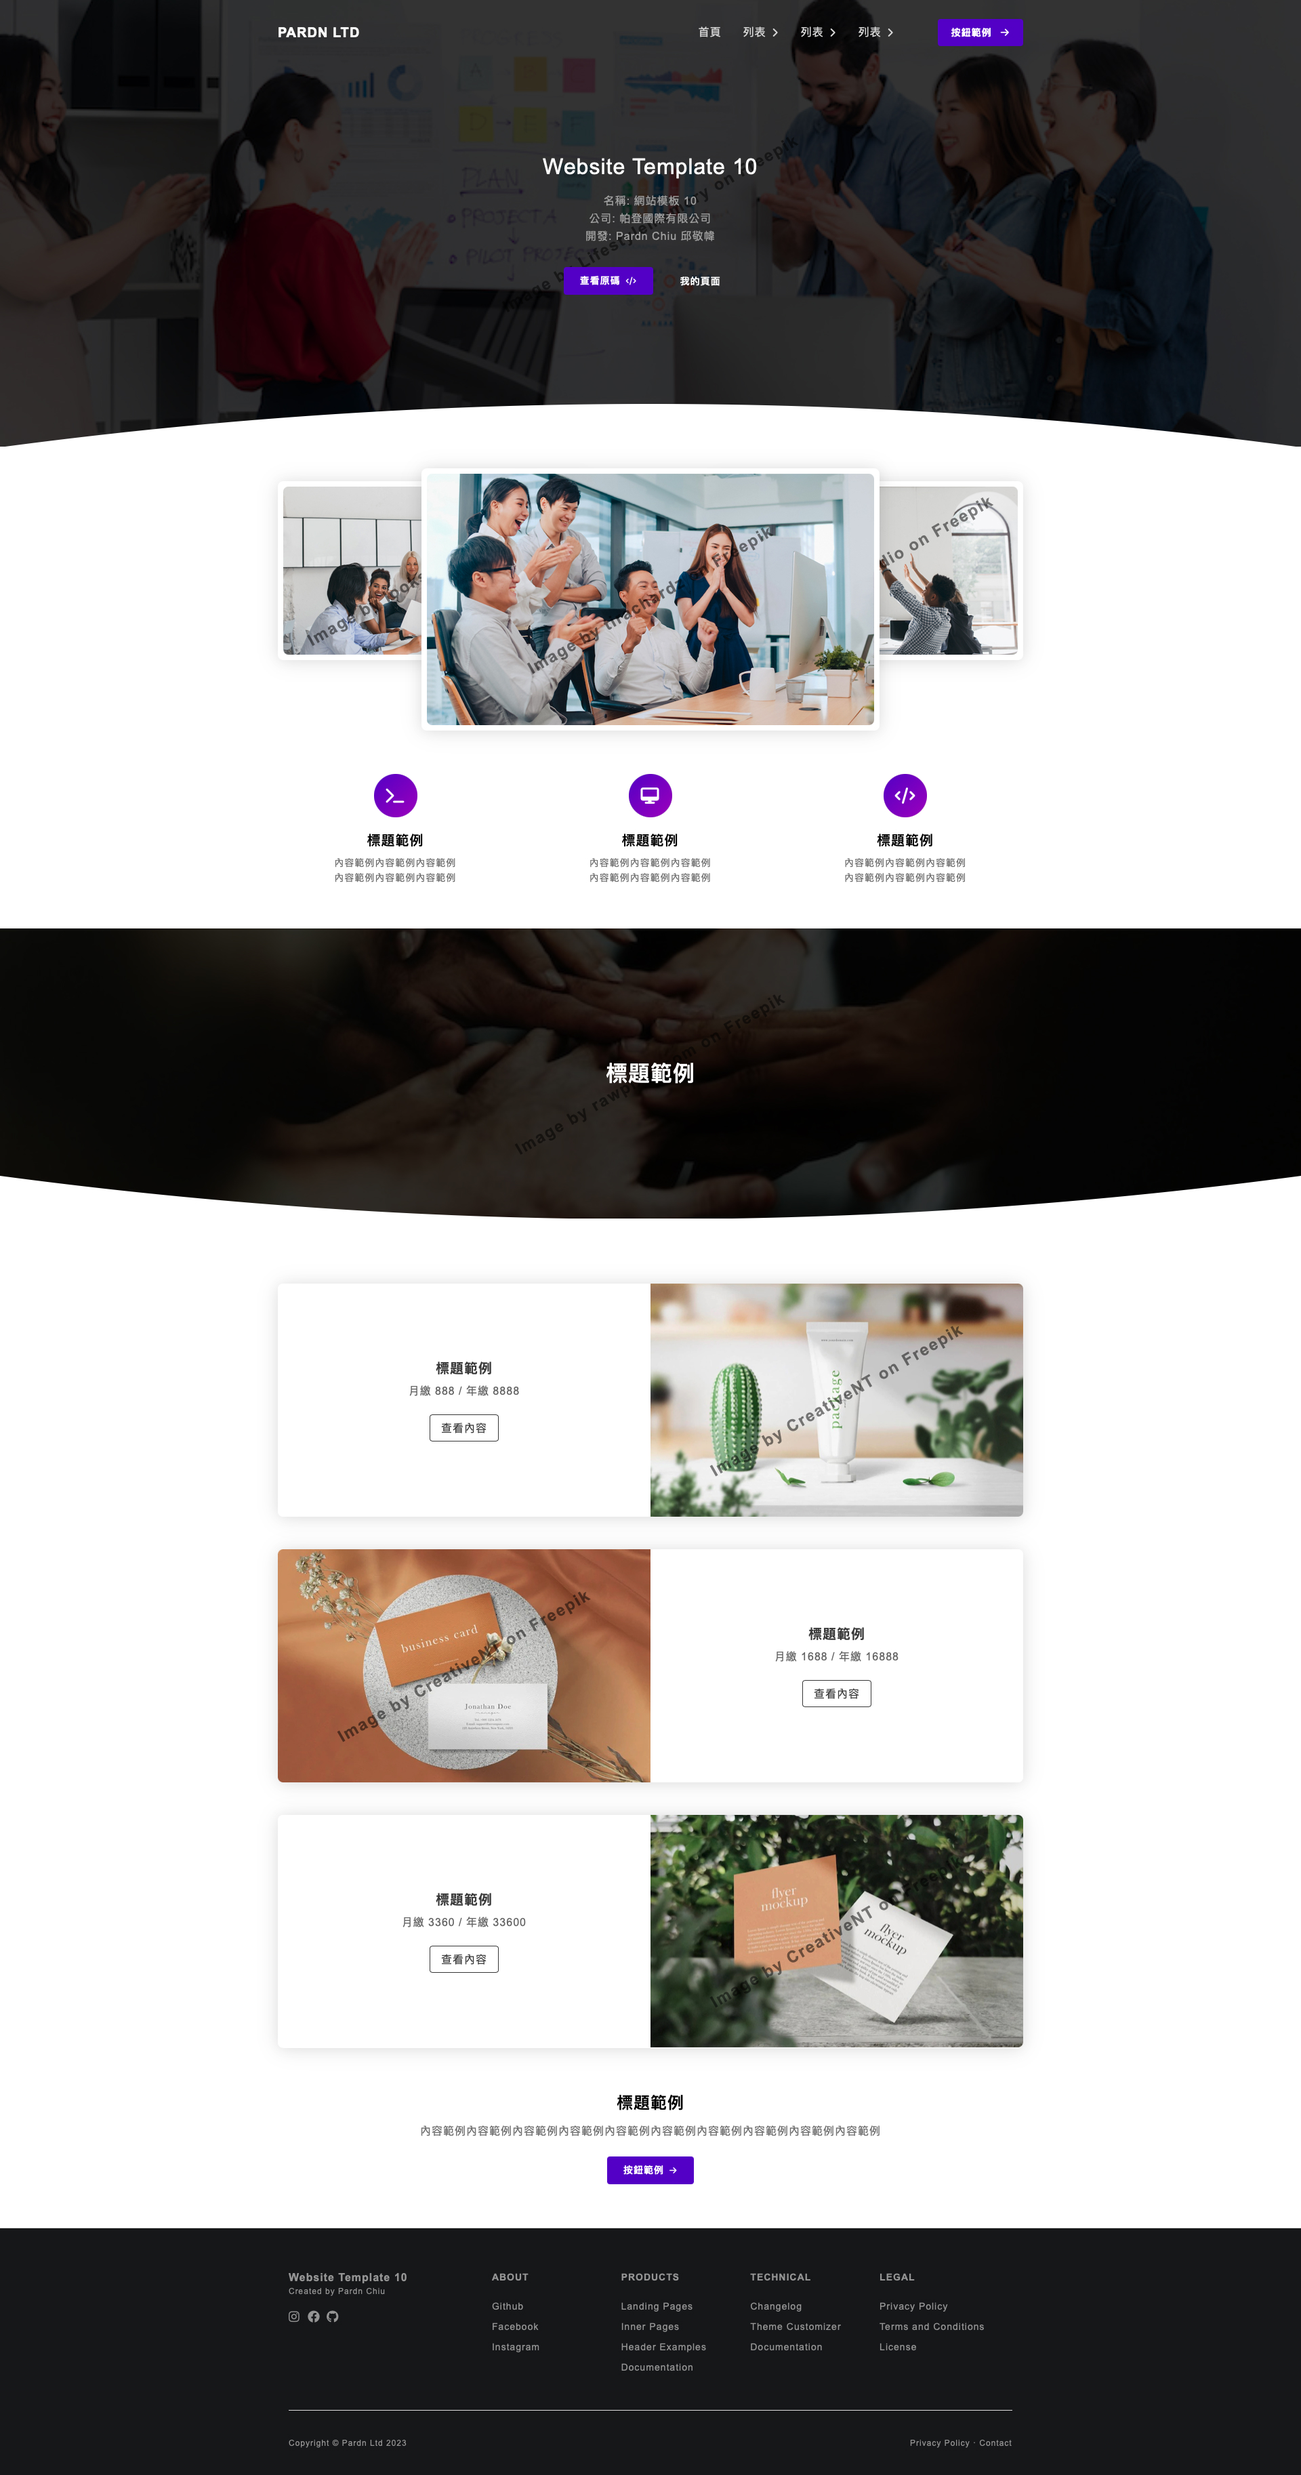
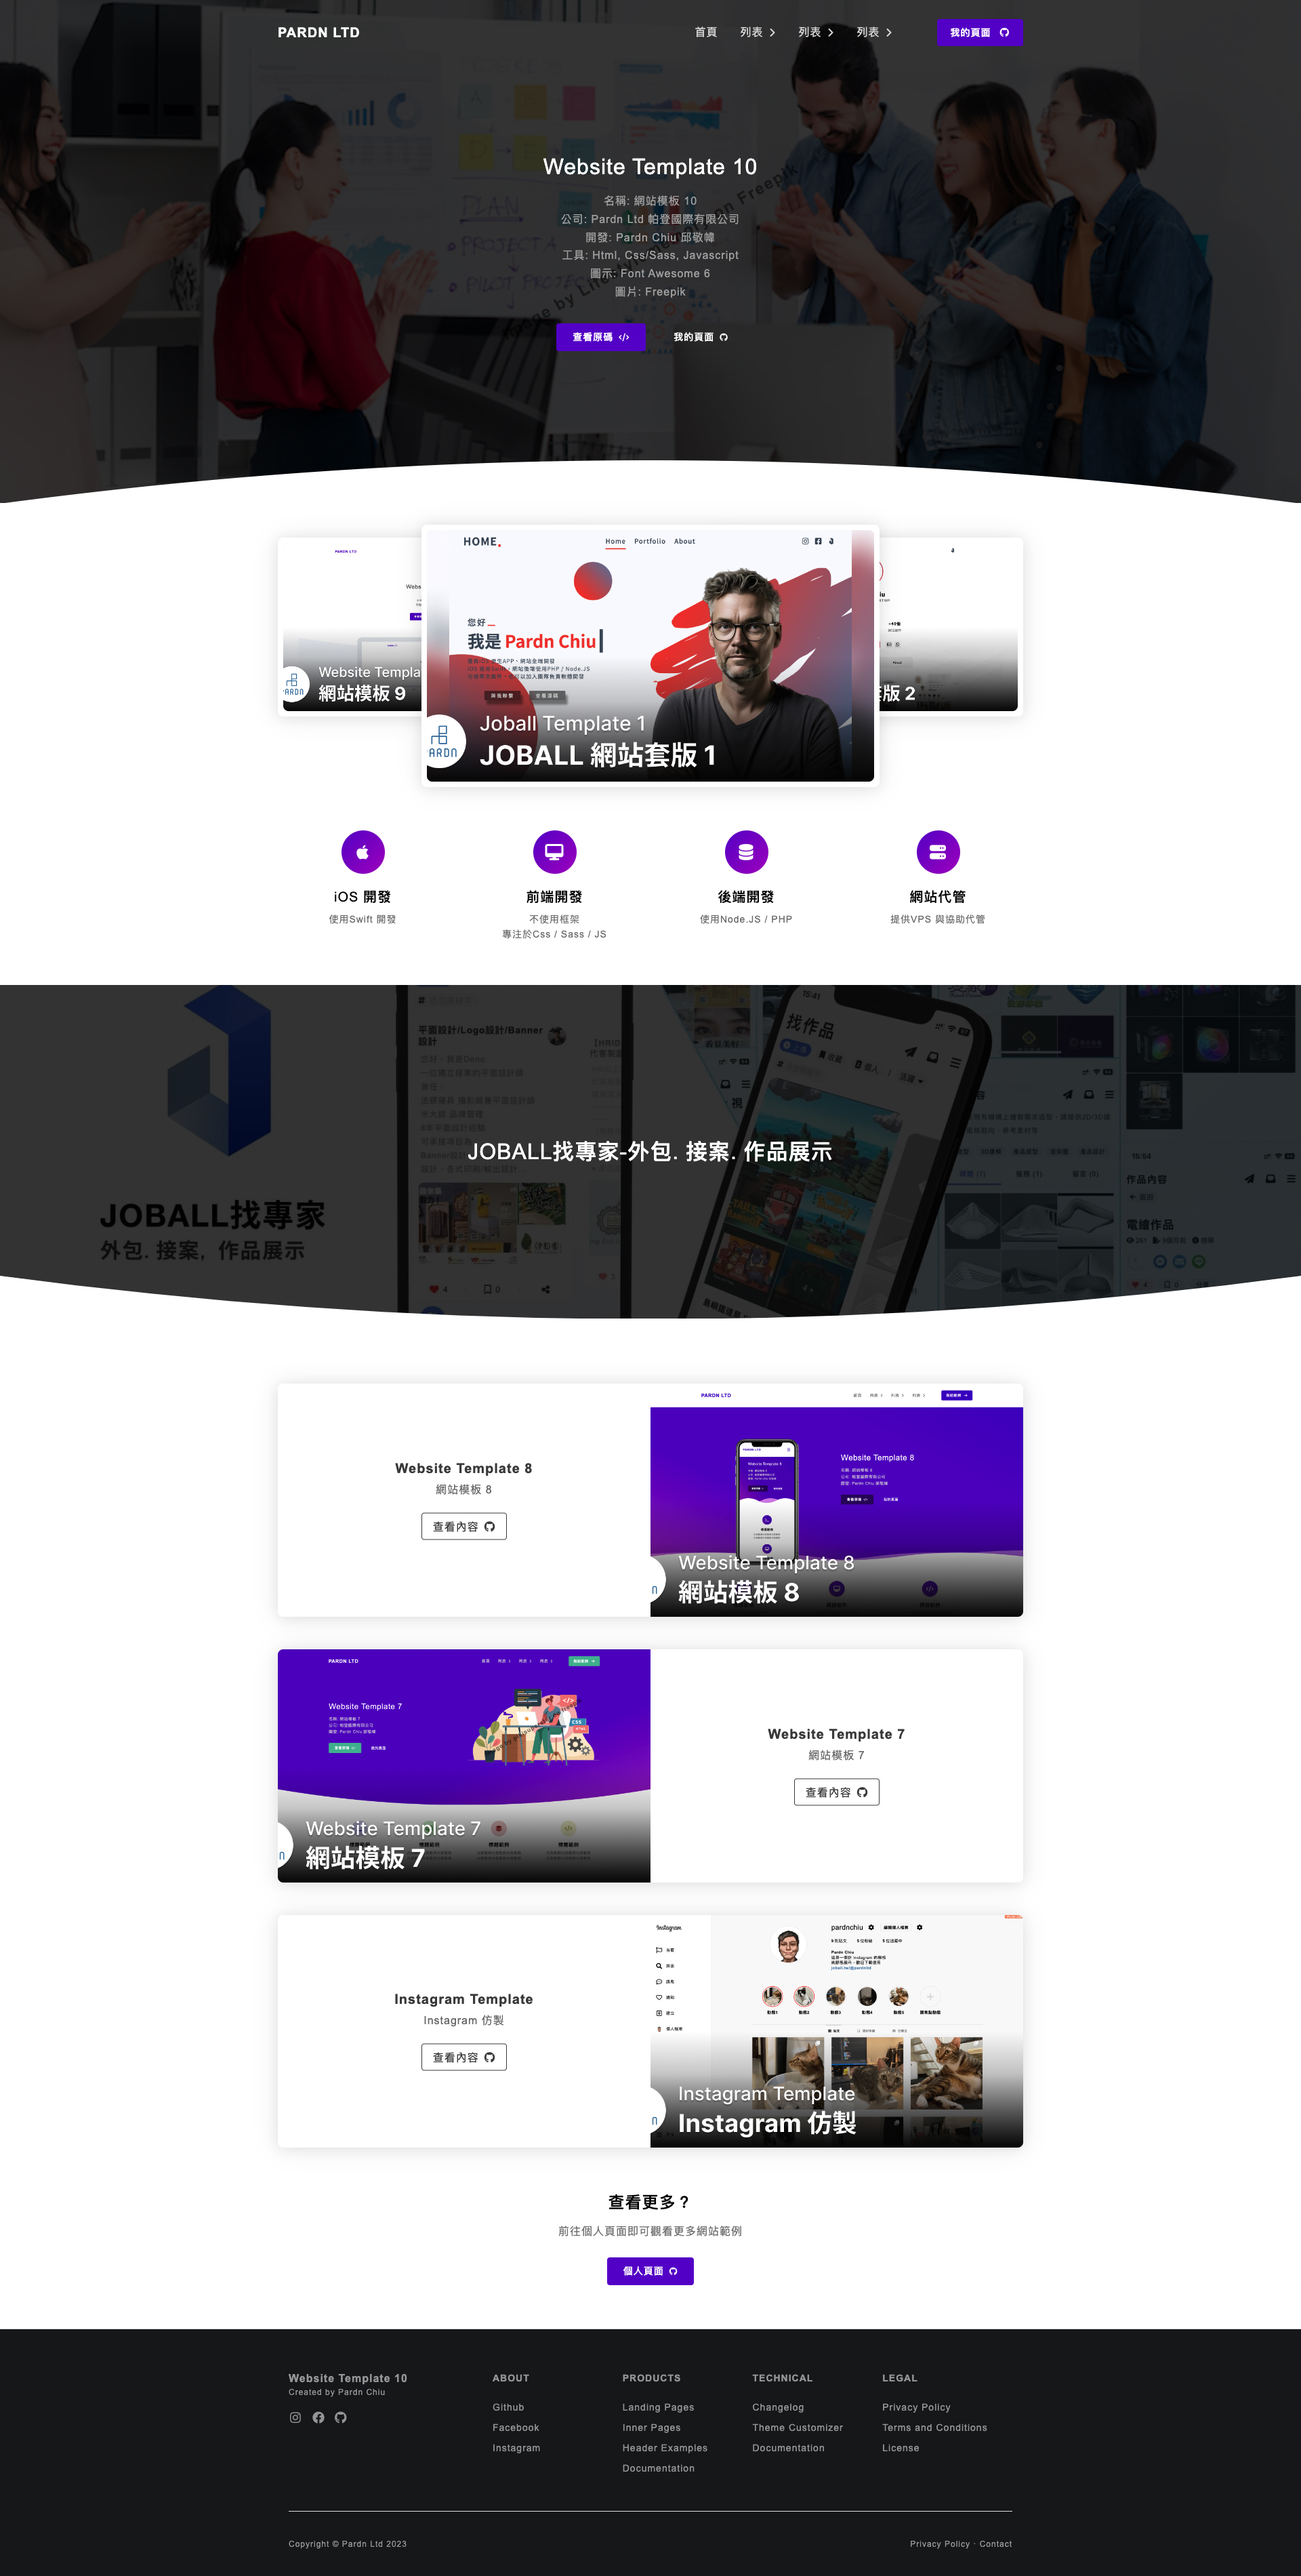
202303030818

diff --git a/index.html b/index.html
@@ -30,13 +30,13 @@
   <meta property="og:title"       content="Website Template 10 - 網站模板 10">
   <meta property="og:description" content="您好，我是帕登國際有限公司的全端工程師Pardn Chiu，擁有豐富的網站開發和iOS開發經驗。可以提供客製化的網站開發和iOS開發服務，確保最終成果品質和使用體驗。如果您需要專業的網站開發和iOS開發服務，請聯繫帕登國際有限公司，我是Pardn Chiu，您客製化網頁開發、iOS開發的最佳解決方案。我還提供了一個專家社群平台「JOBALL找專家」，專為尋找專業人才的企業和個人設計。透過JOBALL，您可以輕鬆地搜尋並找到需要的專家，並與他們直接聯繫，省去中間環節的麻煩。而身為專業人才的您也可以在JOBALL專家社群平台中上傳自己的作品和經驗，讓更多人發現自己的專業特長，並獲得更多的接案機會。如果您需要尋找專業人才，或是想要展示自己的專業技能，歡迎來JOBALL找尋適合您的機會。">
   <meta property="og:image"       content="image/2-1.jpg">
-  <meta property="og:url"         content="https://pardnchiu.github.io/website-template-10">
+  <meta property="og:url"         content="https://pardnchiu.github.io/website-template-10/">
   <meta property="og:type"        content="website">
   <!--  -->
   <meta property="twitter:title"        content="Website Template 10 - 網站模板 10">
   <meta property="twitter:description"  content="您好，我是帕登國際有限公司的全端工程師Pardn Chiu，擁有豐富的網站開發和iOS開發經驗。可以提供客製化的網站開發和iOS開發服務，確保最終成果品質和使用體驗。如果您需要專業的網站開發和iOS開發服務，請聯繫帕登國際有限公司，我是Pardn Chiu，您客製化網頁開發、iOS開發的最佳解決方案。我還提供了一個專家社群平台「JOBALL找專家」，專為尋找專業人才的企業和個人設計。透過JOBALL，您可以輕鬆地搜尋並找到需要的專家，並與他們直接聯繫，省去中間環節的麻煩。而身為專業人才的您也可以在JOBALL專家社群平台中上傳自己的作品和經驗，讓更多人發現自己的專業特長，並獲得更多的接案機會。如果您需要尋找專業人才，或是想要展示自己的專業技能，歡迎來JOBALL找尋適合您的機會。">
   <meta property="twitter:image"        content="image/2-1.jpg">
-  <meta property="og:url"               content="https://pardnchiu.github.io/website-template-10">
+  <meta property="og:url"               content="https://pardnchiu.github.io/website-template-10/">
   <!--  -->
   <meta property="twitter:site" content="">
   <meta property="twitter:card" content="">
@@ -117,10 +117,10 @@
 						</button>
 					</li>
 				</ul>
-				<button>
-					<b>按鈕範例</b>
-					<i class="fas fa-arrow-right right"></i>
-				</button>
+				<a href="https://pardnchiu.github.io/" target="_blank">
+					<b>我的頁面</b>
+					<i class="fa-brands fa-github right"></i>
+				</a>
 			</div>
 			<button class="right">
 				<i class="fas fa-bars"></i>
@@ -135,8 +135,11 @@
 					<h1 col="#fff">Website Template 10</h1>
 					<p col="#aaa">
 						名稱: 網站模板 10<br>
-						公司: 帕登國際有限公司<br>
-						開發: Pardn Chiu 邱敬幃
+						公司: Pardn Ltd 帕登國際有限公司<br>
+						開發: Pardn Chiu 邱敬幃<br>
+						工具: Html, Css/Sass, Javascript<br>
+						圖示: Font Awesome 6<br>
+						圖片: Freepik
 					</p>
 					<ul>
 						<li>
@@ -145,7 +148,7 @@
 							</a>
 						</li>
 						<li>
-							<a col="#fff" href="https://pardnchiu.github.io" target="_blank">
+							<a col="#fff" href="https://pardnchiu.github.io/" target="_blank">
 								我的頁面<i class="fa-brands fa-github right"></i>
 							</a>
 						</li>
@@ -163,17 +166,17 @@
 		<div>
 			<ul>
 				<li class="left" unhover="1">
-					<a href="https://pardnchiu.github.io/website-template-10" target="_blank">
-						<img src="https://pardnchiu.github.io/website-template-10/image/2-1.jpg" alt="">
+					<a href="https://pardnchiu.github.io/website-template-9/" target="_blank">
+						<img src="https://pardnchiu.github.io/website-template-9/image/2-1.jpg" alt="">
 					</a>
 				</li>
 				<li class="right" unhover="1">
-					<a href="https://pardnchiu.github.io/joball-template-2" target="_blank">
+					<a href="https://pardnchiu.github.io/joball-template-2/" target="_blank">
 						<img src="https://pardnchiu.github.io/joball-template-2/preview/2-1.png" alt="">
 					</a>
 				</li>
 				<li class="center" unhover="1">
-					<a href="https://pardnchiu.github.io/joball-template-1" target="_blank">
+					<a href="https://pardnchiu.github.io/joball-template-1/" target="_blank">
 						<img src="https://pardnchiu.github.io/joball-template-1/preview/2-1.png" alt="">
 					</a>
 				</li>
@@ -230,42 +233,42 @@
 		<div>
 			<ul>
 				<li>
-					<a href="https://pardnchiu.github.io/website-template-9" target="_blank">
-						<img src="https://pardnchiu.github.io/website-template-9/image/2-1.jpg" alt="">
-					</a>
-					<div>
-						<div>
-							<h6>Website Template 9</h6>
-							<p>網站模板 9</p>
-							<a href="https://pardnchiu.github.io/website-template-9" targe="_blank">
-								查看內容<i class="fa-brands fa-github right"></i>
-							</a>
-						</div>
-					</div>
-				</li>
-				<li>
-					<a href="https://pardnchiu.github.io/website-template-8" target="_blank">
+					<a href="https://pardnchiu.github.io/website-template-8/" target="_blank">
 						<img src="https://pardnchiu.github.io/website-template-8/image/2-1.jpg" alt="">
 					</a>
 					<div>
 						<div>
 							<h6>Website Template 8</h6>
 							<p>網站模板 8</p>
-							<a href="https://pardnchiu.github.io/website-template-8" targe="_blank">
+							<a href="https://pardnchiu.github.io/website-template-8/" targe="_blank">
 								查看內容<i class="fa-brands fa-github right"></i>
 							</a>
 						</div>
 					</div>
 				</li>
 				<li>
-					<a href="https://pardnchiu.github.io/website-template-7" target="_blank">
+					<a href="https://pardnchiu.github.io/website-template-7/" target="_blank">
 						<img src="https://pardnchiu.github.io/website-template-7/image/2-1.jpg" alt="">
 					</a>
 					<div>
 						<div>
 							<h6>Website Template 7</h6>
 							<p>網站模板 7</p>
-							<a href="https://pardnchiu.github.io/website-template-7" targe="_blank">
+							<a href="https://pardnchiu.github.io/website-template-7/" targe="_blank">
+								查看內容<i class="fa-brands fa-github right"></i>
+							</a>
+						</div>
+					</div>
+				</li>
+				<li>
+					<a href="https://pardnchiu.github.io/instagram-template-202210/" target="_blank">
+						<img src="https://pardnchiu.github.io/instagram-template-202210/preview/2-1.png" alt="">
+					</a>
+					<div>
+						<div>
+							<h6>Instagram Template</h6>
+							<p>Instagram 仿製</p>
+							<a href="https://pardnchiu.github.io/instagram-template-202210" targe="_blank">
 								查看內容<i class="fa-brands fa-github right"></i>
 							</a>
 						</div>

diff --git a/README.md b/README.md
@@ -1,11 +1,11 @@
-# 網站模板 10
+# Website Template 網站模板 10
 
 ***
 
-- 預覽: [Github.io](https://pardnchiu.github.io/website-template-10)
-- 源碼: [Github.com](https://github.com/pardnchiu/website-template-10)
+- 預覽: [Github.io](https://pardnchiu.github.io/website-template-10/)
+- 源碼: [Github.com](https://github.com/pardnchiu/website-template-10/)
 - 授權: [MIT LICENSE](https://github.com/pardnchiu/website-template-10/blob/main/LICENSE)
-- 開發: [Pardn Chiu](https://joball.tw/@pardnltd)
+- 開發: [Pardn Chiu 邱敬幃](https://joball.tw/@pardnltd)
 
 ***
 
